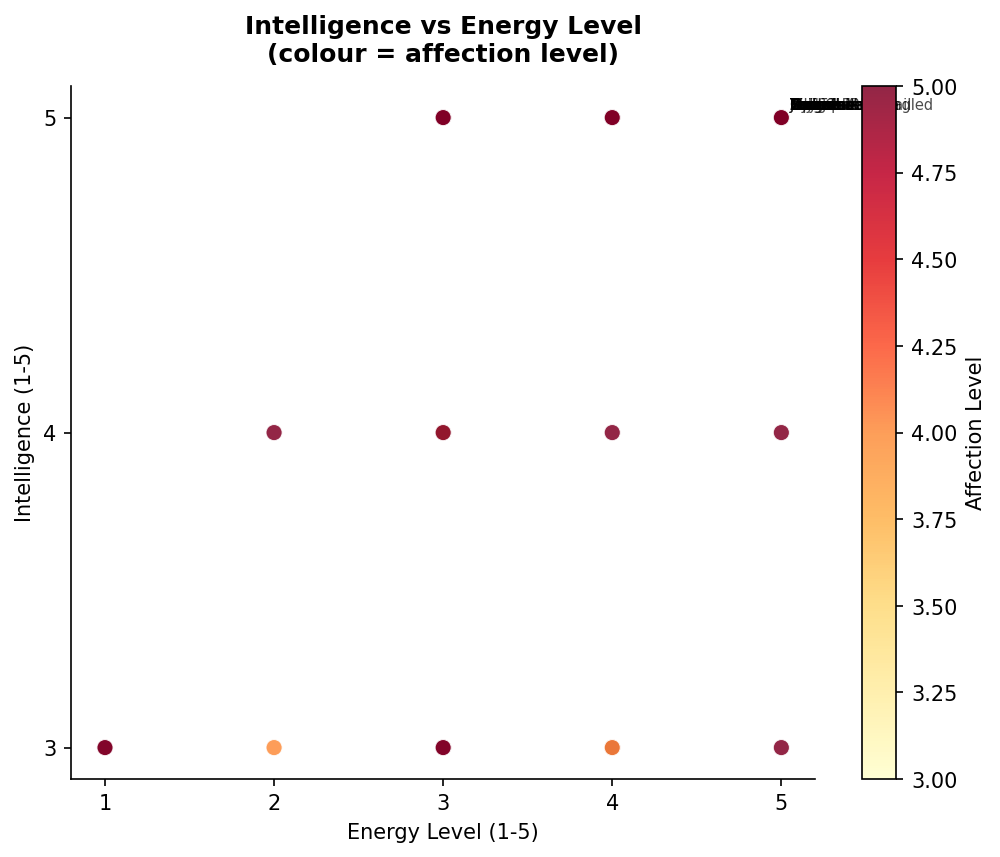
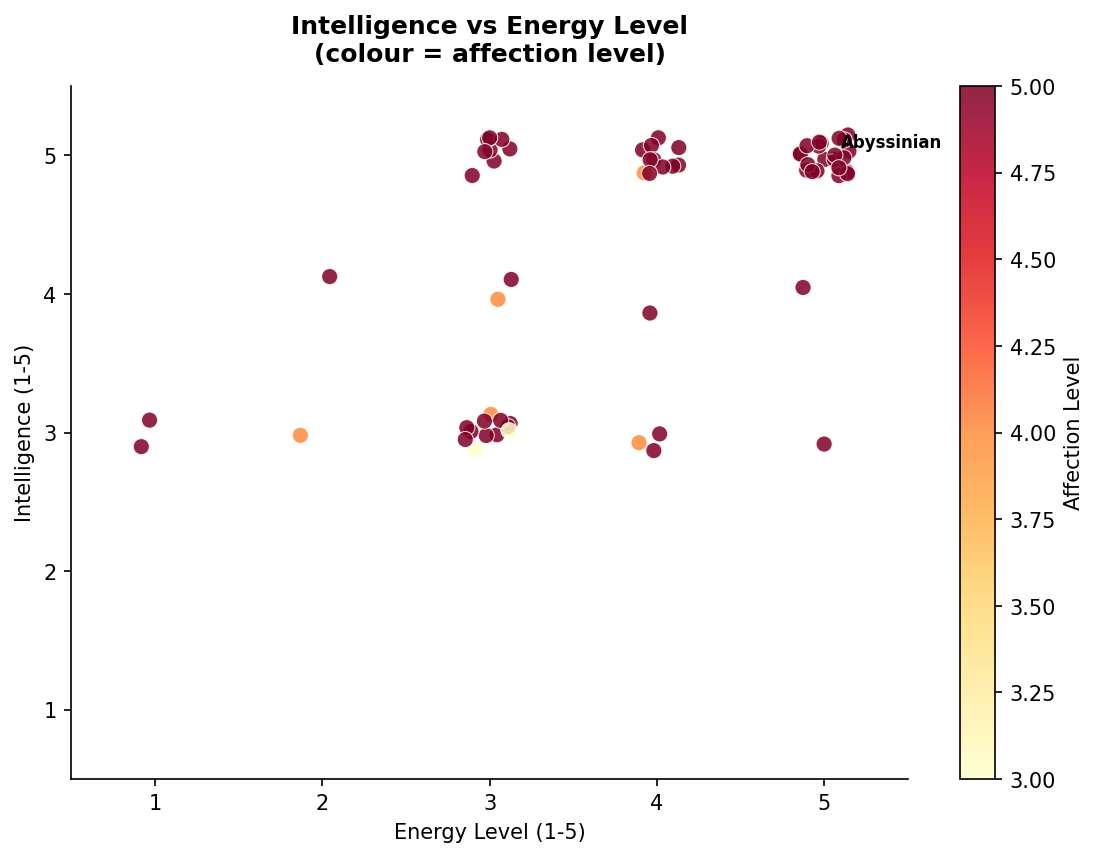
add numpy to requirements, fix intelligence vs energy scatter plot

diff --git a/cat_breeds/analyse.py b/cat_breeds/analyse.py
@@ -13,6 +13,7 @@ import pandas as pd
 import matplotlib.pyplot as plt
 import matplotlib.ticker as mticker
 import os
+import numpy as np
 
 DB_PATH    = "data/breeds.db"
 OUTPUT_DIR = "output"
@@ -89,30 +90,44 @@ def chart_trait_averages(df: pd.DataFrame) -> None:
 
 def chart_intelligence_vs_energy(df: pd.DataFrame) -> None:
     """Scatter plot: intelligence vs energy level, coloured by affection."""
-    fig, ax = plt.subplots(figsize=(8, 6))
+
+    # Add jitter to prevent overplotting
+    jitter = 0.15
+    x = df["energy_level"] + np.random.uniform(-jitter, jitter, len(df))
+    y = df["intelligence"] + np.random.uniform(-jitter, jitter, len(df))
+
+    fig, ax = plt.subplots(figsize=(9, 6))
     scatter = ax.scatter(
-        df["energy_level"], df["intelligence"],
+        x, y,
         c=df["affection_level"], cmap="YlOrRd",
         s=60, edgecolors="white", linewidth=0.5, alpha=0.85,
     )
-    plt.colorbar(scatter, ax=ax, label="Affection Level")
+    cbar = plt.colorbar(scatter, ax=ax, label="Affection Level")
+    cbar.ax.yaxis.label.set_size(10)
 
-    # Label a few interesting outliers
-    for _, row in df.iterrows():
-        if row["intelligence"] == 5 and row["energy_level"] == 5:
-            ax.annotate(row["name"], (row["energy_level"], row["intelligence"]),
-                        fontsize=7, alpha=0.7,
-                        xytext=(4, 4), textcoords="offset points")
+# Label only the most affectionate breed at intelligence=5, energy=5
+    top = df[(df["intelligence"] == 5) & (df["energy_level"] == 5)].nlargest(1, "affection_level")
+    for _, row in top.iterrows():
+        ax.annotate(
+            row["name"],
+            (row["energy_level"], row["intelligence"]),
+            fontsize=8,
+            fontweight="bold",
+            xytext=(8, 4),
+            textcoords="offset points",
+            arrowprops=dict(arrowstyle="-", color="grey", lw=0.8),
+        )
 
     ax.set_title("Intelligence vs Energy Level\n(colour = affection level)",
                  fontweight="bold", pad=12)
     ax.set_xlabel("Energy Level (1-5)")
     ax.set_ylabel("Intelligence (1-5)")
+    ax.set_xlim(0.5, 5.5)
+    ax.set_ylim(0.5, 5.5)
     ax.xaxis.set_major_locator(mticker.MaxNLocator(integer=True))
     ax.yaxis.set_major_locator(mticker.MaxNLocator(integer=True))
     ax.spines[["top", "right"]].set_visible(False)
     save(fig, "intelligence_vs_energy.png")
-
 
 def chart_hypoallergenic_breakdown(df: pd.DataFrame) -> None:
     """Pie chart: hypoallergenic vs non-hypoallergenic breeds."""
